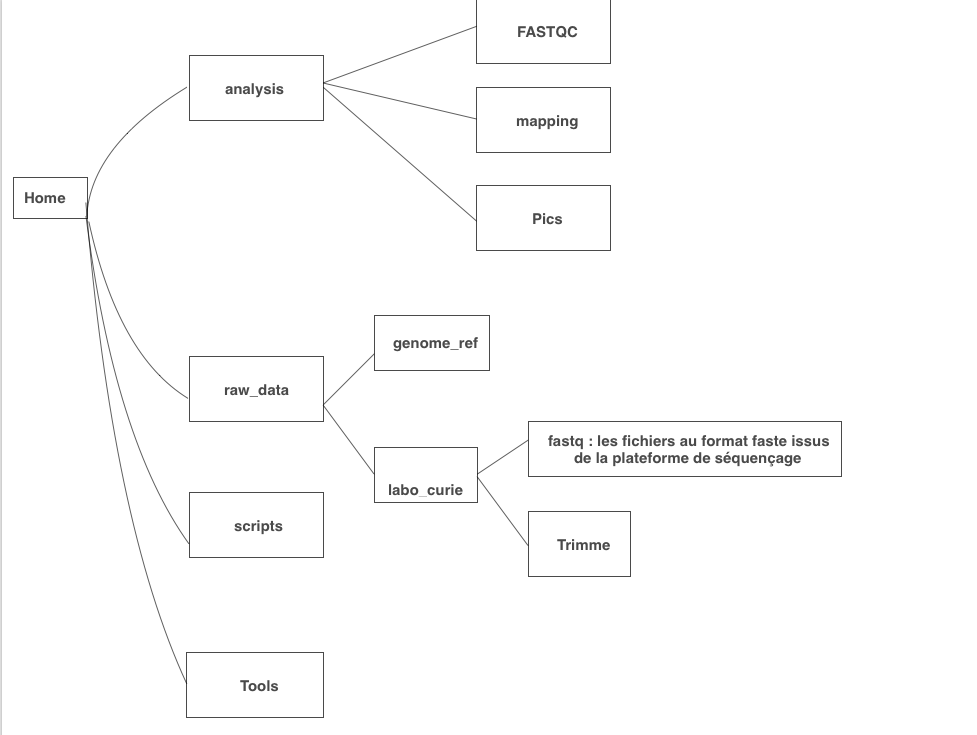
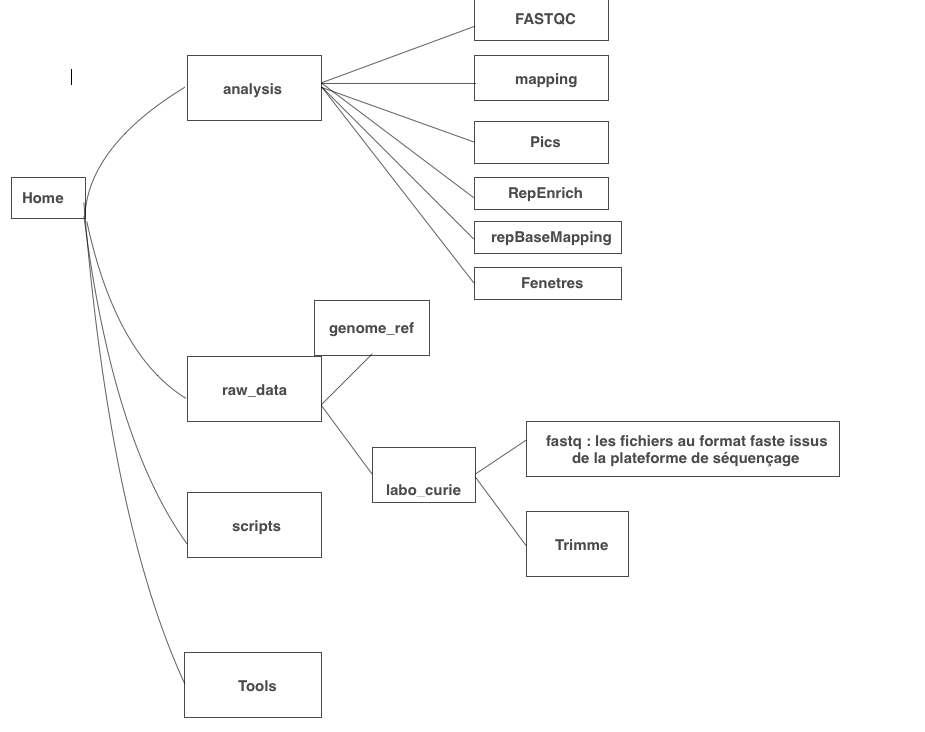
README

diff --git a/scripts/README.md b/scripts/README.md
@@ -86,6 +86,6 @@ Tools : contenant les outils fastq et bigwigtobedgraphe, RepEnrich2, IGV, circos
 analysis
 Il faut également que les outils suivants soient installés : bowtie2, samtools, bedtools, deeptools, R (avec les packages FactoMineR, DeSeq2), epic, (macs2)
 
-Les dossiers Trimme (les fichiers fastq trimés des 5 premières paires de bases), FASTQC (contenant les éléments d'analyse qualité), mapping (contenant les différents fichiers d'alignments et les fichiers bam filtrés), et PICS (contenant les résultats de la détection de pics) sont crées au moment de l'analyse.
+Les dossiers Trimme (les fichiers fastq trimés des 5 premières paires de bases), FASTQC (contenant les éléments d'analyse qualité), mapping (contenant les différents fichiers d'alignments et les fichiers bam filtrés), et PICS (contenant les résultats de la détection de pics), Repenrich, repBaseMapping et Fenetres (analyse du genome decoupes en fenetres) sont crées au moment de l'analyse.
 
 ![alt text](https://github.com/MathildeBertrand/STAGE_M2/blob/master/scripts/Organisation_dossiers.png)
